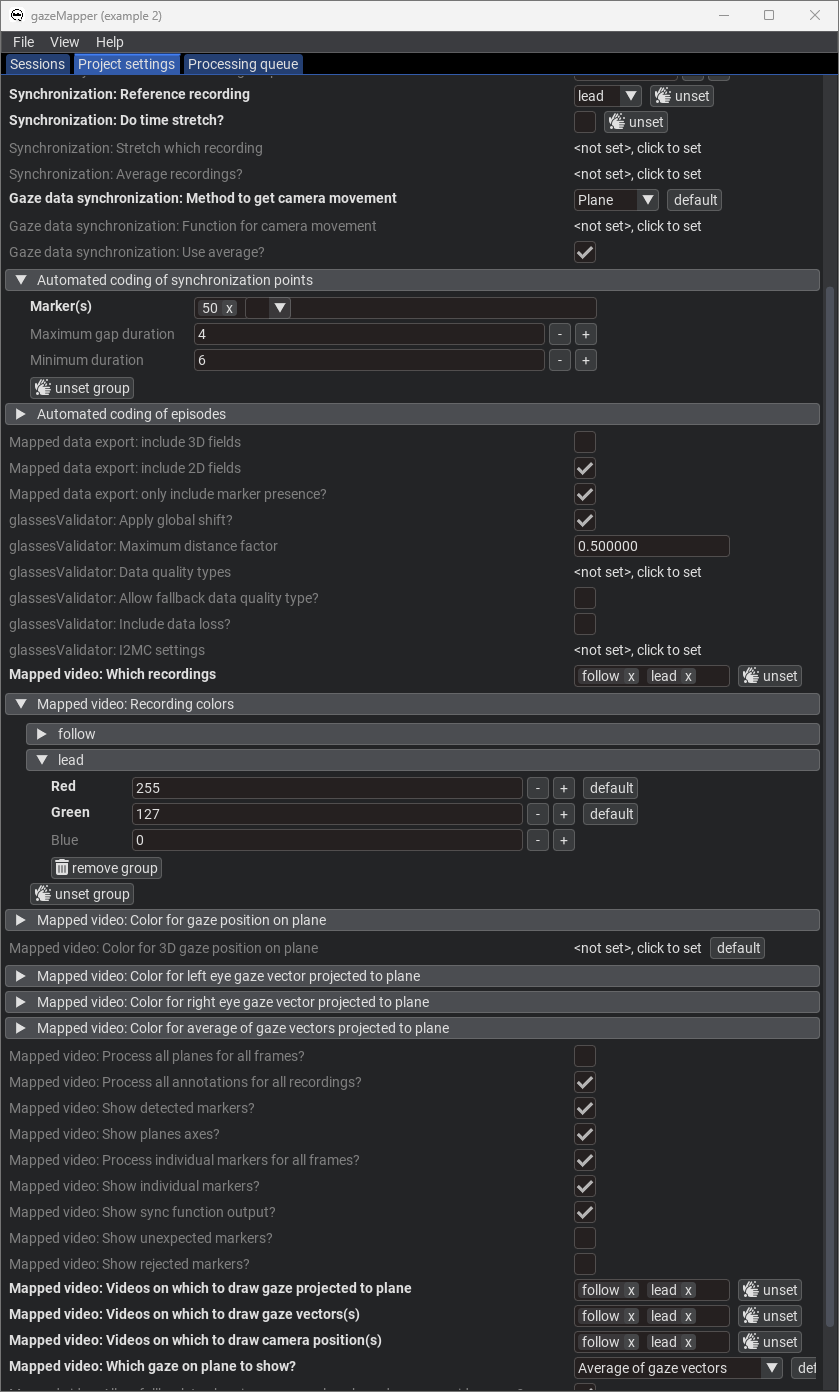
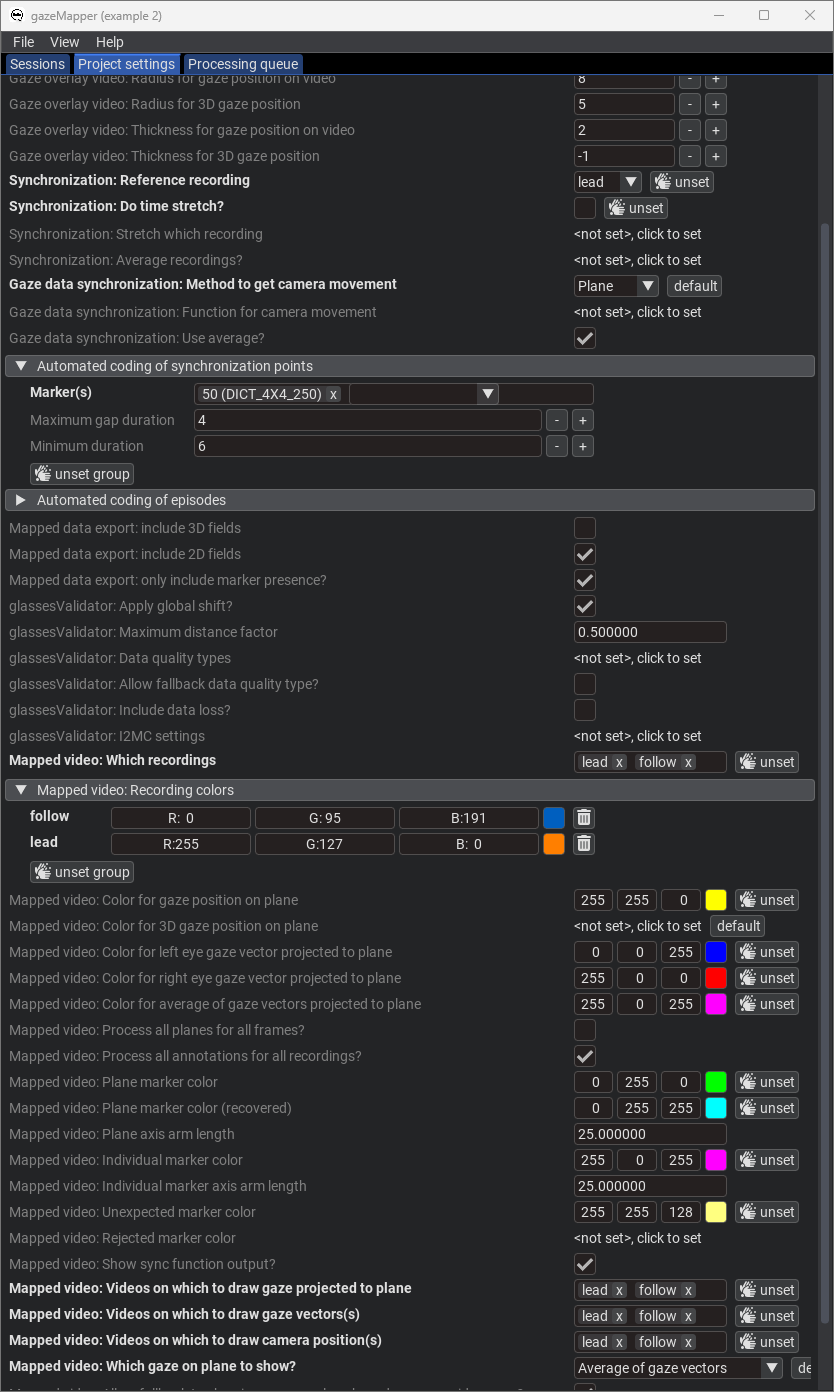
updated readme

Changed region(s): [[0.0, 0.0, 0.9976, 1.0]]

diff --git a/README.md b/README.md
@@ -18,7 +18,7 @@ A data quality tool for eye tracking glasses. Behavior Research Methods. doi: 10
 
 ## Example
 ![application example](https://raw.githubusercontent.com/dcnieho/gazeMapper/master/.github/images/world_data.png?raw=true)
-Example where gazeMapper has been used to map head-centered eye tracking data from two head-worn eye tracker recordings (top panels, camera positions are indicated using stars, and gaze positions using colored circles. Blue indicates eye tracker 1 [ET1] and orange eye tracker 2) to synchronized world-centered gaze data of the pair, drawn on an overview video frame (bottom panel) recorded with an additional external camera. The shown frames are produced by gazeMapper's advanced gaze video functionality (though larger stars and circles to indicate the camera and gaze points were manually overlaid for clarity). From [Hessels, R.S.,Teunisse, M., Niehorster, D.C., Nyström, M., Benjamins, J.S., Senju, A. & Hooge, I.T.S. (2023). Task related gaze behaviour in face to face dyadic collaboration: Toward an interactive theory. _Visual Cognition 31_(4), pp. 291-313. doi: 10.1080/13506285.2023.2250507](https://doi.org/10.1080/13506285.2023.2250507).
+Example where gazeMapper has been used to map head-centered eye tracking data from two head-worn eye tracker recordings (top panels, camera positions are indicated using stars, and gaze positions using colored circles. Blue indicates eye tracker 1 [ET1] and orange eye tracker 2 [ET2]) to synchronized world-centered gaze data of the pair, drawn on an overview video frame (bottom panel) recorded with an additional external camera. The shown frames are produced by gazeMapper's advanced gaze video functionality (though larger stars and circles to indicate the camera and gaze points were manually overlaid for clarity). From [Hessels, R.S.,Teunisse, M., Niehorster, D.C., Nyström, M., Benjamins, J.S., Senju, A. & Hooge, I.T.S. (2023). Task related gaze behaviour in face to face dyadic collaboration: Toward an interactive theory. _Visual Cognition 31_(4), pp. 291-313. doi: 10.1080/13506285.2023.2250507](https://doi.org/10.1080/13506285.2023.2250507).
 
 # Table of contents
 - [How to acquire](#how-to-acquire)
@@ -226,16 +226,16 @@ Example 1 is a minimum example, showing a short recording where a participant lo
 
         ![Episodes editor](https://raw.githubusercontent.com/dcnieho/gazeMapper/master/.github/images/episodes_editor_1.png?raw=true)
     1. Next, detection of the markers to delineate trials needs to be configured. On the `Project settings` pane, click on `Edit individual markers` to configure these.
-        1. Add two individual markers, using the `+ new individual marker` button. Add markers 80 and 81, and for both select the `detect only?` checkbox. It should look like the image below.
+        1. Add two individual markers, using the `+ new individual marker` button. Add markers 80 and 81 for the `DICT_4X4_250` ArUco dictionary, and for both select the `detect only?` checkbox. It should look like the image below.
 
             ![Individual marker editor](https://raw.githubusercontent.com/dcnieho/gazeMapper/master/.github/images/indiv_marker_editor_1.png?raw=true)
     1. Some settings also need to be configured on the `Project settings` page itself. Specifically, we need to set:
         1. `Gaze data synchronization: Method to get camera movement` to `Plane` as we'll use the glassesValidator plane for synchronizing gaze data and the scene camera. Note that this also resolves the error flagged on the Plane editor configuration pane.
-        1. Set up `Automated coding of episodes` by clicking on `click to set`. Expand the created settings and click `add item`. In the popup, select `Trial` and click `Add item`. Expand the `Trial episodes` item. For this item, set `Start marker(s)` to `80 81` and `End marker(s)` to `81 80`, since these are the markers used in the example in that order to denote trial starts and ends. For the rest of the settings the defaults are ok. Note that different markers or marker sequences could also be used for indicating starts and ends.
+        1. Set up `Automated coding of episodes` by clicking on `click to set`. Expand the created settings and click `add item`. In the popup, select `Trial` and click `Add item`. Expand the `Trial episodes` item. For this item, set `Start marker(s)` to `80 (DICT_4X4_250) 81 (DICT_4X4_250)` and `End marker(s)` to `81 (DICT_4X4_250) 80 (DICT_4X4_250)`, since these are the markers used in the example in that order to denote trial starts and ends. For the rest of the settings the defaults are ok. Note that different markers or marker sequences could also be used for indicating starts and ends.
         1. When processing the recording, we want to output a scene video with detected markers and gaze projected to the validation and screen planes. To set this up, set `Mapped video: which recordings` to `eye tracker`, the name of the recording we defined in the session definition.
-        1. Furthermore, set up a color with which to draw gaze in the `Mapped video: recording colors` field, using the color `Red`: `255`, `Green`: `127` and `Blue`: `0`.
+        1. Furthermore, set up a color with which to draw gaze for the `eye tracker` recording in the `Mapped video: recording colors` field, using the color `Red`: `255`, `Green`: `127` and `Blue`: `0`.
         1. Set `Mapped video: Videos on which to draw gaze projected to plane` to `eye tracker`.
-        1. Finally, open `Mapped video: Color for 3D gaze position on the plane` and click `Unset group` to unset that color, which means that that gaze type will not be drawn on the video.
+        1. Finally, click `unset` for `Mapped video: Color for 3D gaze position on the plane`, which means that that gaze type will not be drawn on the video.
 
         ![Project config](https://raw.githubusercontent.com/dcnieho/gazeMapper/master/.github/images/project_config_1.png?raw=true)
 4. Now that the project is set up, we are ready to import and process recordings.
@@ -287,7 +287,7 @@ Nonetheless, below we provide a full description of how recording preparation, d
 
    It is important that the exact positions, sizes and orientations of the individual ArUco markers are known. This is required for gazeMapper to be able to correctly determine the observer's position and orientation with respect to the plane, allowing for gaze to be projected to the plane. This information has to be provided to gazeMapper. For more information, see [gazeMapper planes](#gazemapper-planes).
 2. A recording then proceeds as follows.
-    1. Both participants are positioned in front of the stimulus screens. One participant is designated the `lead`, the other the `follower` (they could for instance be teacher and student, but the names used could of course be anything).
+    1. Both participants are positioned in front of the stimulus screens. One participant is designated the `lead`, the other the `follow`er (they could for instance be teacher and student, but the names used could of course be anything).
     1. Both participants look at the screen of the lead participant, where an ArUco marker is shown for [automatic synchronization](#automatic-coding-of-synchronization-timepoints).
     1. One participant is first presented with the glassesValidator poster and completes a glassesValidator data collection ([see step 3 here](https://github.com/dcnieho/glassesValidator?tab=readme-ov-file#workflow-and-example-data)). Note that in the example, the validation is not performed at arm's length, but at the distance at which the rest of the task will be completed. If a single distance is predominant during an experiment, using a specific distance for the validation data collection is recommended.
     1. After this, while the participant remains at the same position, they are instructed to continuously fixate the fixation target at the center of the validation poster while slowly nodding no with their head five times, and then slowly nodding yes five times.
@@ -317,18 +317,18 @@ Nonetheless, below we provide a full description of how recording preparation, d
 
         ![Episodes editor](https://raw.githubusercontent.com/dcnieho/gazeMapper/master/.github/images/episodes_editor_2.png?raw=true)
     1. Next, detection of the markers to delineate trials needs to be configured. On the `Project settings` pane, click on `Edit individual markers` to configure these.
-        1. Add three individual markers, using the `+ new individual marker` button. Add markers 50, 80 and 81, and for all select the `detect only?` checkbox. It should look like the image below.
+        1. Add three individual markers, using the `+ new individual marker` button. Add markers 50, 80 and 81 for the `DICT_4X4_250` ArUco dictionary, and for all select the `detect only?` checkbox. It should look like the image below.
 
             ![Individual marker editor](https://raw.githubusercontent.com/dcnieho/gazeMapper/master/.github/images/indiv_marker_editor_2.png?raw=true)
     1. Some settings also need to be configured on the `Project settings` page itself. Specifically, we need to set:
         1. `Synchronization: Reference recording` to `lead`.
         1. `Synchronization: Do time stretch?` to False (unchecked/disabled).
         1. `Gaze data synchronization: Method to get camera movement` to `Plane` as we'll use the glassesValidator plane for synchronizing gaze data and the scene camera. Note that this also resolves the error flagged on the Plane editor configuration pane.
-        1. Set up `Automated coding of synchronization points` by clicking on `click to set`. Expand the created settings. Set `Marker(s)` to `50`. For the rest of the settings the defaults are ok. Note also that multiple markers could be used as synchronization points.
-        1. Set up `Automated coding of trial episodes` by clicking on `click to set`. Expand the created settings and click `add item`. In the popup, select `Trial` and click `Add item`. Expand the `Trial episodes` item. For this item, set `Start marker(s)` to `80 81` and `End marker(s)` to `81 80`, since these are the markers used in the example in that order to denote trial starts and ends. For the rest of the settings the defaults are ok. Note that different markers or marker sequences could also be used for indicating starts and ends.
+        1. Set up `Automated coding of synchronization points` by clicking on `click to set`. Expand the created settings. Set `Marker(s)` to `50 (DICT_4X4_250)`. For the rest of the settings the defaults are ok. Note also that multiple markers could be used as synchronization points.
+        1. Set up `Automated coding of trial episodes` by clicking on `click to set`. Expand the created settings and click `add item`. In the popup, select `Trial` and click `Add item`. Expand the `Trial episodes` item. For this item, set `Start marker(s)` to `80 (DICT_4X4_250) 81 (DICT_4X4_250)` and `End marker(s)` to `81 (DICT_4X4_250) 80 (DICT_4X4_250)`, since these are the markers used in the example in that order to denote trial starts and ends. For the rest of the settings the defaults are ok. Note that different markers or marker sequences could also be used for indicating starts and ends.
         1. When processing the recording, we want to output scene videos for both with detected markers and gaze of both participants projected to the validation and screen planes. To set this up, set both `lead` and `follow` (the names of the recordings we defined in the session definition) for `Mapped video: which recordings`.
-        1. Furthermore, set up the colors with which to draw gaze in the `Mapped video: recording colors` field. Press `Add item` and add both the `lead` and `follow` recordings. For `lead`, use the color `Red`: `255`, `Green`: `127` and `Blue`: `0`. For `follow`, use the color `Red`: `0`, `Green`: `95` and `Blue`: `191`.
-        1. Open `Mapped video: Color for 3D gaze position on the plane` and click `Unset group` to unset that color, which means that that gaze type will not be drawn on the video.
+        1. Furthermore, set up the colors with which to draw gaze for the `lead` and `follow` recordings in the `Mapped video: recording colors` field. Press `Add item` and add both the `lead` and `follow` recordings. For `lead`, use the color `Red`: `255`, `Green`: `127` and `Blue`: `0`. For `follow`, use the color `Red`: `0`, `Green`: `95` and `Blue`: `191`.
+        1. Click `unset` for `Mapped video: Color for 3D gaze position on the plane`, which means that that gaze type will not be drawn on the video.
         1. Set `Mapped video: Videos on which to draw gaze projected to plane`, `Mapped video: Videos on which to draw gaze vectors(s)` and `Mapped video: Videos on which to draw camera position(s)` all to both `follow` and `lead`.
         1. For `Mapped video: Which gaze on plane to show?` select `Average of gaze vectors`. This will use, if the eye tracker provides it, the intersection of the gaze vectors with the plane instead of the gaze position on the scene video. This may be more accurate, depending on the assumptions in the eye tracker for determining the scene position on the gaze video. Users are recommended to pilot what setting is most suitable for their project and equipment.
 
@@ -419,7 +419,7 @@ Example 3 is a more advanced example, showing a recording of a participant looki
 
         ![Episodes editor](https://raw.githubusercontent.com/dcnieho/gazeMapper/master/.github/images/episodes_editor_3.png?raw=true)
     1. Next, detection of the markers to delineate trials needs to be configured. On the `Project settings` pane, click on `Edit individual markers` to configure these.
-        1. Add three individual markers, using the `+ new individual marker` button. Add markers 50, 80 and 81, all with a size of `69.237908`. It should look like the image below.
+        1. Add three individual markers, using the `+ new individual marker` button. Add markers 50, 80 and 81 for the `DICT_4X4_250` ArUco dictionary, all with a size of `69.237908`. It should look like the image below.
 
             ![Individual marker editor](https://raw.githubusercontent.com/dcnieho/gazeMapper/master/.github/images/indiv_marker_editor_3.png?raw=true)
     1. Some settings also need to be configured on the `Project settings` page itself. Specifically, we need to set:
@@ -428,8 +428,8 @@ Example 3 is a more advanced example, showing a recording of a participant looki
         1. `Synchronization: Stretch which recording?` to `Other recording(s)`.
         1. Click `Synchronization: Average recordings?` to create the setting, but do not assign any recording, since we do not want to use this functionality.
         1. `Gaze data synchronization: Method to get camera movement` to `Plane` as we'll use the glassesValidator plane for synchronizing gaze data and the scene camera. Note that this also resolves the error flagged on the Plane editor configuration pane.
-        1. Set up `Automated coding of synchronization points` by clicking on `click to set`. Expand the created settings. Set `Marker(s)` to `50`. For the rest of the settings the defaults are ok. Note also that multiple markers could be used as synchronization points.
-        1. Set up `Automated coding of trial episodes` by clicking on `click to set`. Expand the created settings and click `add item`. In the popup, select `Trial` and click `Add item`. Expand the `Trial episodes` item. For this item, set `Start marker(s)` to `80 81` and `End marker(s)` to `81 80`, since these are the markers used in the example in that order to denote trial starts and ends. For the rest of the settings the defaults are ok. Note that also different markers or marker sequences can be used for starts and ends.
+        1. Set up `Automated coding of synchronization points` by clicking on `click to set`. Expand the created settings. Set `Marker(s)` to `50 (DICT_4X4_250)`. For the rest of the settings the defaults are ok. Note also that multiple markers could be used as synchronization points.
+        1. Set up `Automated coding of trial episodes` by clicking on `click to set`. Expand the created settings and click `add item`. In the popup, select `Trial` and click `Add item`. Expand the `Trial episodes` item. For this item, set `Start marker(s)` to `80 (DICT_4X4_250) 81 (DICT_4X4_250)` and `End marker(s)` to `81 (DICT_4X4_250) 80 (DICT_4X4_250)`, since these are the markers used in the example in that order to denote trial starts and ends. For the rest of the settings the defaults are ok. Note that also different markers or marker sequences can be used for starts and ends.
         1. When processing the recording, we want to output scene videos for both with detected markers and gaze of both participants projected to the validation and screen planes. To set this up, set both `eye tracker` and `overview` (the names of the recordings we defined in the session definition) for `Mapped video: which recordings`.
         1. Furthermore, set up the colors with which to draw gaze in the `Mapped video: recording colors` field. Press `Add item` and add the `eye tracker` recording (the overview recording cannot be added as it has no gaze data). For the `eye tracker` recording, use the color `Red`: `255`, `Green`: `127` and `Blue`: `0`.
         1. Finally set `Mapped video: Videos on which to draw gaze projected to plane`, `Mapped video: Videos on which to draw gaze vectors(s)` and `Mapped video: Videos on which to draw camera position(s)` all to `overview`. For `Mapped video: Videos on which to draw gaze projected to plane`, also specify `eye tracker`. Set `Mapped video: Gaze position margin` to `0.1`.
